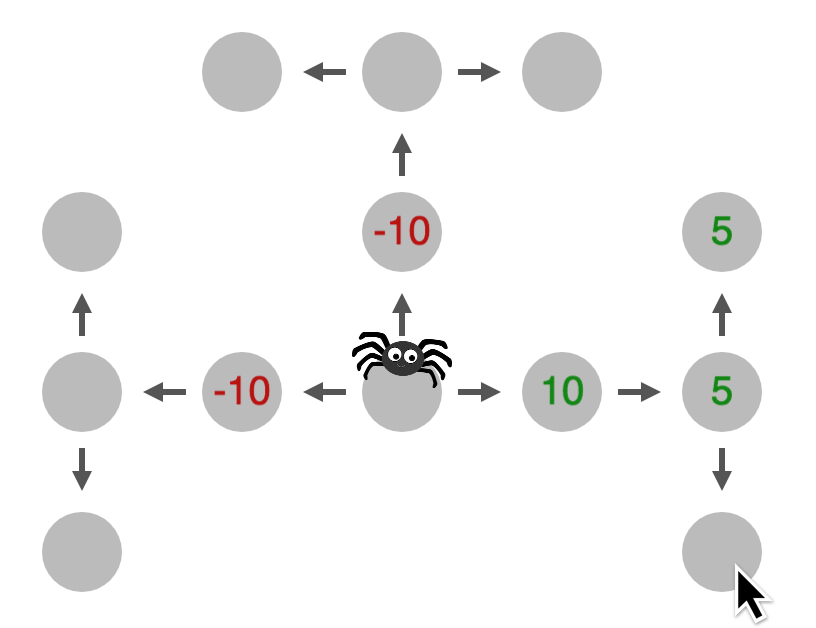
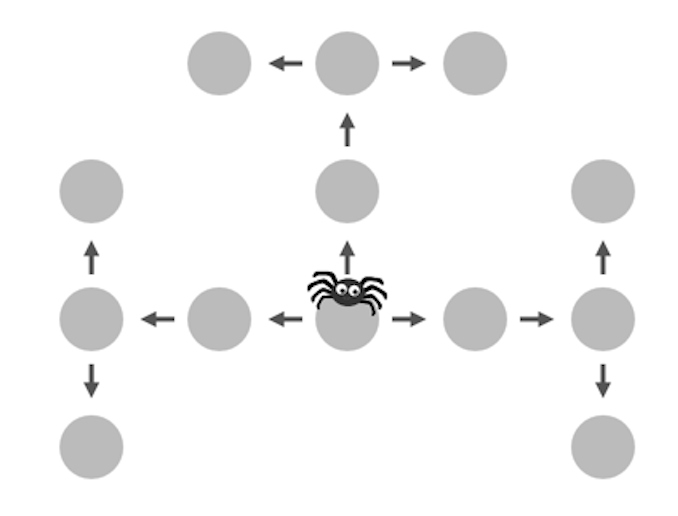
added different pictures for each condition, added demographics

diff --git a/static/js/experiment.js b/static/js/experiment.js
@@ -154,38 +154,45 @@ initializeExperiment = function () {
         show_clickable_nav: true,
         pages: function () {
             return [
+
                 `<h1> Instructions </h1>
+<div style="text-align: left">
+<li>In this HIT, you will play ${NUM_TRIALS} rounds of the <em>Web of Cash</em> game.</li>
+<li>First you will be given the instructions and answer some questions to check your understanding of the game.</li>
+<li>The whole HIT will take about 15 minutes.</li>
+<li>The better you perform, the higher your bonus will be.</li>
 
-In this HIT, you will play ${NUM_TRIALS} rounds of the <em>Web of Cash</em> game.  \n
-First you will be given the instructions and answer some questions to check your understanding of the game. The whole HIT will take about 15 minutes. \n
-The better you perform, the higher your bonus will be.
+</div>
+
 `,
-                ` <h1>Web of Cash</h1>
-In this HIT, you will play a game called <em>Web of Cash</em>. 
-You will guide a money-loving spider through a spider web. \n
-Each gray circle (called a <strong><em>node</strong></em>) has its own value. At the end of each trial, 
-the value of the nodes will be summed up and added to your score. \n\n
+                `<h1> Web of Cash </h1>
+<div style="text-align: left">
+<li>In this HIT, you will play a game called <em>Web of Cash</em></li>
+<li>You will guide a money-loving spider through a spider web.</li>
+<li>Each gray circle (called a <strong><em>node</strong></em>) has its own value.</li>
+<li>At the end of each trial, the value of the nodes will be summed up and added to your score.</li>
+<li>You will be able to move the spider with the arrow keys, but only in the direction of the arrows between the nodes.</li>
+<li>The image below shows the shape of all the webs that you will be navigating in when the game starts.</li>
+<img class='display' style="width:50%; height:auto" src='/static/images/web-of-cash.png'/>
+</div>
 
- You will be able to move the spider with the arrow keys, but only in the direction
- of the arrows between the nodes. The image below shows the shape of all the webs that you will be navigating in when the game starts.
-
-<img class='display' style="width:50%; height:auto" src='static/images/web-of-cash-unrevealed.png'/>
 `,
                 `<h1> <em>Web of Cash</em> Node Inspector </h1>
 
-It's hard to make good decision when you can't see what you will get!
-Fortunately, in the <em>Web of Cash</em> game you will have access to a 
-<strong><em>node inspector</strong></em> which can reveal the value of a node. \n
-To use the node inspector, simply <strong><em>click on a node</strong></em>. \n
-The image below illustrates how this works.
+<div style="text-align: left">
+<li>It's hard to make good decision when you can't see what you will get!</li>
+<li>Fortunately, in the <em>Web of Cash</em> game you will have access to a <strong><em>node inspector</strong></em> which can reveal the value of a node.</li>
+<li>To use the node inspector, simply <strong><em>click on a node</strong></em>.</li>
+<li>The image below illustrates how this works.</li>
+
 <br>
-<strong>Note:</strong> you can only use the node inspector when you're on the starting
-node.
+<li><strong>Note:</strong> you can only use the node inspector when you're on the starting
+node.</li>
 
-<img class='display' style="width:50%; height:auto" src='static/images/web-of-cash.png'/>
-
+<img class='display' style="width:50%; height:auto" src='static/images/cond_${CONDITION}_example.png'/>
+</div>
 `,
-                `<h1> Rewards and Costs (2/2) </h1>
+                `<h1> Rewards and Costs </h1>
 <div style="text-align: left">
 <li>Each node of the web either contains a reward of up to <strong><font color='green'>$48</font></strong> or a loss of up to <strong><font color='red'>$-48</font></strong></li>
 <li>You can find out about a node's loss or reward by using the node inspector, which costs <strong>$1 per click.</strong></li>
@@ -198,11 +205,10 @@ node.
 
                 `<h1> Additional Information </h1>
 
-<img class='display' style="width:50%; height:auto" src='static/images/web-of-cash.png'/>
 <div style="text-align: left">
 <li>There will be ${NUM_TRIALS} trials and on every round the rewards behind each node will be different. So you have to make a new plan every time</li>
 <li>Practice makes perfect! You can get better at planning through practice.</li>
-<li>You will receive a base pay of $2.00 </li>
+<li>You will receive a base pay of $1.50 </li>
 <li>The more money the spider gets, the bigger your bonus will be!</li>
 </div>`,
                 `<h1> Quiz </h1>
@@ -269,7 +275,7 @@ If you get any of the questions incorrect, you will be brought back to the instr
             for (resp_id in responses) {
                 response = responses[resp_id];
                 if (!(data.last(1).values()[0].correct[resp_id] === response)) {
-                    alert(`You got at least one question wrong. We'll send you back to the instructions and then you can try again. Number of attempts left: ${MAX_REPETITIONS - REPETITIONS}.`);
+                    alert(`You got at least one question wrong. We'll send you back to the instructions and then you can try again.`);
                     return true; // try again
                 }
             }
@@ -280,34 +286,34 @@ If you get any of the questions incorrect, you will be brought back to the instr
 
     let demographics = {
         type: 'survey-html-form',
-        preamble: "<h1>Demographics</h1> <br> Please answer the following questions.",
-        html: `<p>
-  What is your gender?<br>
+        preamble: "<h1>Demographics</h1> <br> Thanks for participating. We hope you had fun! Please answer the following questions.",
+        html: `<div style="text-align: left"> <p>
+  <strong>What is your gender?</strong><br>
   <input required type="radio" name="gender" value="male"> Male<br>
   <input required type="radio" name="gender" value="female"> Female<br>
   <input required type="radio" name="gender" value="other"> Other<br>
 </p>
 <br>
 <p>
-  How old are you?<br>
+  <strong>How old are you?</strong><br>
   <input required type="number" name="age">
 </p>
 <br>
 <p>
-  Are you colorblind?<br>
-  <input required type="radio" name="colorblind" value="0">No<br>
-  <input required type="radio" name="colorblind" value="1">Yes<br>
-  <input required type="radio" name="colorblind" value="2">Don't know<br>
+  <strong>Are you colorblind?</strong><br>
+  <input required type="radio" name="colorblind" value="0"> No<br>
+  <input required type="radio" name="colorblind" value="1"> Yes<br>
+  <input required type="radio" name="colorblind" value="2"> Don't know<br>
 </p>
 <br>
 <p>
-  Since we are doing science, we would now like to know how much attention/effort you put into the game and any surveys. <br><em>(Please note that, even if you answer \'No effort\', it will not affect your pay in anyway and we will not exclude you from future studies based on this response. It will just enable us to do our data analysis better. <strong> We value your time! </strong>)</em><br>
-  <input required type="radio" name="effort" value="0">A lot of effort (e.g. paying full attention throughout, trying to get a high score in the <em> Web of Cash </em>)<br>
-  <input required type="radio" name="effort" value="1">Some effort (e.g. mostly paying attention, listening to music or a podcast)<br>
-  <input required type="radio" name="effort" value="2">Minimal effort (e.g. watching TV and not always looking at the screen, just trying to get through the <em> Web of Cash </em> trials)<br>
-  <input required type="radio" name="effort" value="3">No effort (e.g. randomly clicking)<br>
-  <input required type="radio" name="effort" value="4">Unsure<br>
-</p>`
+  <strong>Since we are doing science, we would now like to know how much attention/effort you put into the game and any surveys. <br><em>(Please note that, even if you answer \'No effort\', it will not affect your pay in anyway and we will not exclude you from future studies based on this response. It will just enable us to do our data analysis better. <strong> We value your time! </strong>)</em><br></strong>
+  <input required type="radio" name="effort" value="0"> A lot of effort (e.g. paying full attention throughout, trying to get a high score in the <em> Web of Cash </em>)<br>
+  <input required type="radio" name="effort" value="1"> Some effort (e.g. mostly paying attention, listening to music or a podcast)<br>
+  <input required type="radio" name="effort" value="2"> Minimal effort (e.g. watching TV and not always looking at the screen, just trying to get through the <em> Web of Cash </em> trials)<br>
+  <input required type="radio" name="effort" value="3"> No effort (e.g. randomly clicking)<br>
+  <input required type="radio" name="effort" value="4"> Unsure<br>
+</p><\div>`
     };
     let training_trial_increasing = {
         type: 'mouselab-mdp',
@@ -401,30 +407,31 @@ Move with the arrow keys.`,
         preamble: function () {
             return `<h1> You've completed the HIT </h1>
 
-Thanks for participating. We hope you had fun! Based on your
-performance, you will be awarded a bonus of
-<strong>$${BONUS}</strong>.
+Based on your performance, you will be awarded a total bonus of <strong>$${calculateBonus().toFixed(2)}</strong>.
 
 Please briefly answer the questions below before you submit the HIT.`;
+        },
+        on_finish: function() {
+            return BONUS = calculateBonus().toFixed(2);
         },
         questions: [
             {
                 prompt: 'Was anything confusing or hard to understand?',
                 required: false,
-                rows: 10
+                rows: 3
             },
             {
                 prompt: "What have you learned? What are you doing differently now from what you were doing at the beginning of this HIT?",
                 required: true,
-                rows: 5
+                rows: 3
             },
             {
                 prompt: 'Additional comments?',
                 required: false,
-                rows: 10
+                rows: 3
             }
         ],
-        button_label: 'Continue on to secret code'
+        button_label: 'Submit and continue to the secret code'
     };
     let secret_code_trial = {
         type: 'html-button-response',
@@ -436,11 +443,11 @@ Please briefly answer the questions below before you submit the HIT.`;
 
 
     if (CONDITION === 0) {
-        experiment_timeline = [instruct_loop, training_trial_increasing, finish];
+        experiment_timeline = [instruct_loop, training_trial_increasing, demographics, finish];
     } else if (CONDITION === 1) {
-        experiment_timeline = [instruct_loop, training_trial_decreasing, finish];
+        experiment_timeline = [instruct_loop, training_trial_decreasing, demographics, finish];
     } else if (CONDITION === 2) {
-        experiment_timeline = [instruct_loop, training_trial_constant, finish];
+        experiment_timeline = [instruct_loop, training_trial_constant, demographics, finish];
     }
 
 
@@ -449,21 +456,21 @@ Please briefly answer the questions below before you submit the HIT.`;
 // ================================================ #
 
 // experiment goes to full screen at start
-    experiment_timeline.unshift({
-        type: "fullscreen",
-        message: '<p>The experiment will switch to full screen mode when you press the button below.<br> Please do not leave full screen for the duration of the experiment. </p>',
-        button_label: 'Continue',
-        fullscreen_mode: true,
-        delay_after: 1000
-    });
+//     experiment_timeline.unshift({
+//         type: "fullscreen",
+//         message: '<p>The experiment will switch to full screen mode when you press the button below.<br> Please do not leave full screen for the duration of the experiment. </p>',
+//         button_label: 'Continue',
+//         fullscreen_mode: true,
+//         delay_after: 1000
+//     });
 // at end, show the secret code and then leave fullscreen
 
     experiment_timeline.push(secret_code_trial);
-    experiment_timeline.push({
-        type: "fullscreen",
-        fullscreen_mode: false,
-        delay_after: 1000
-    });
+    // experiment_timeline.push({
+    //     type: "fullscreen",
+    //     fullscreen_mode: false,
+    //     delay_after: 1000
+    // });
 // bonus is the (roughly) total score multiplied by something, bounded by min and max amount
     calculateBonus = function () {
         var bonus;

diff --git a/templates/exp.html b/templates/exp.html
@@ -52,9 +52,9 @@
 		<script src="/static/js/utils.js" type="text/javascript"> </script>
 		<script src="/static/js/psiturk.js" type="text/javascript"> </script>
 
-        <link rel=stylesheet href="static/css/bootstrap.min.css" type="text/css">
-        <link rel=stylesheet href="static/css/style.css" type="text/css">
-        <link rel="stylesheet" href="static/js/jsPsych/css/jspsych.css" type="text/css"></link>
+        <link rel=stylesheet href="/static/css/bootstrap.min.css" type="text/css">
+        <link rel=stylesheet href="/static/css/style.css" type="text/css">
+        <link rel="stylesheet" href="/static/js/jsPsych/css/jspsych.css" type="text/css">
     </head>
     <body>
         <!-- Error messages -->
@@ -124,7 +124,7 @@
 
     </body>
     <!-- This is the main experiment file. -->
-    <script language="javascript", src="static/js/experiment.js", type="text/javascript"></script>
+    <script src="/static/js/experiment.js" type="text/javascript"></script>
 
 </html>
 
